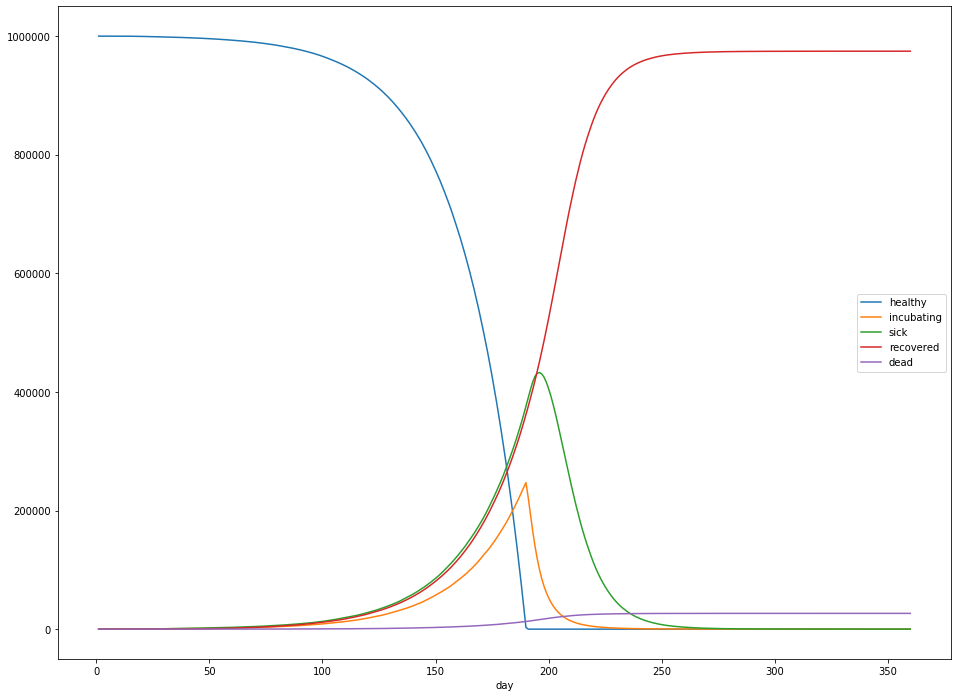
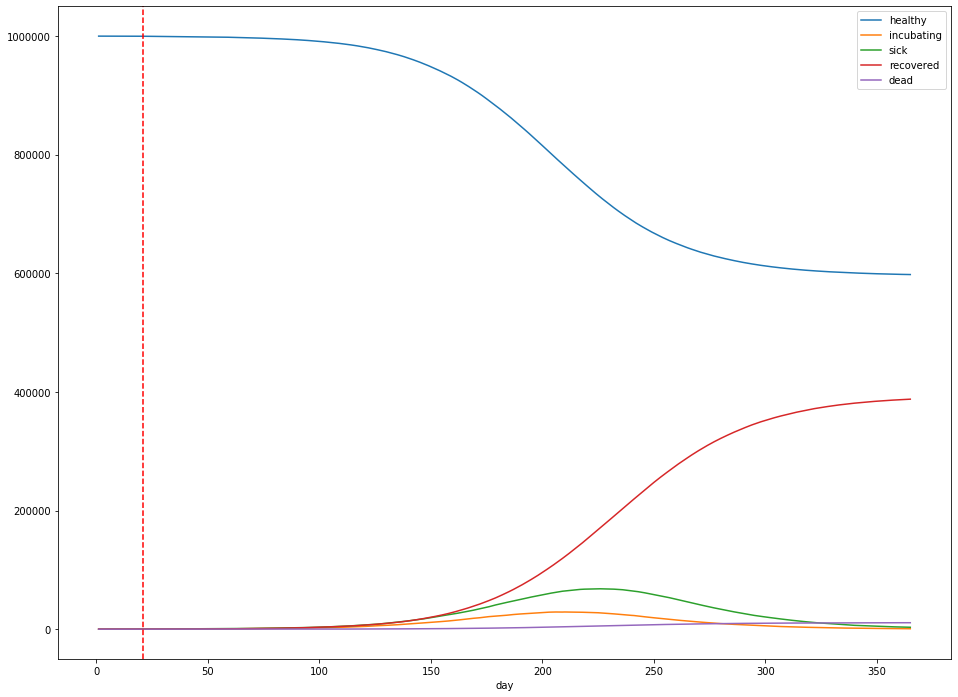
Update covid post

diff --git a/_posts/2020-3-22-simulating-covid.md b/_posts/2020-3-22-simulating-covid.md
@@ -251,21 +251,17 @@ Next, a function to infect a given number of random healthy individuals in the p
 
 ```python
 def infect(population, count):
-    healthy = (population[:,STATE_HEALTHY] == 1).nonzero()[0]
-    if len(healthy) == 0:
-        return
-    to_infect = np.random.choice(healthy, 
-                                 size=min(count, len(healthy)), 
-                                 replace=False)
+    to_infect = np.random.choice(len(population), size=count, replace=False)
+    infectees = to_infect[(population[to_infect,STATE_HEALTHY] == 1).nonzero()[0]]
     
-    population[to_infect, STATE_HEALTHY] = 0
-    population[to_infect, STATE_INCUBATING] = 1
+    population[infectees, STATE_HEALTHY] = 0
+    population[infectees, STATE_INCUBATING] = 1
     return
 ```
 
 The one sneaky thing going on here is the `.nonzero()[0]` call:
 ```python
-population[:,STATE_HEALTHY] == 1
+population[to_infect,STATE_HEALTHY] == 1
 ```
 returns a boolean array of the same shape as `population`, and we want to select the indices of the true values.
 `.nonzero()` returns the indicies of nonzero values, but it returns a tuple---and we're only interested in the first element of that tuple.
@@ -336,9 +332,10 @@ Running the simulation with the parameters gives me the following results:
 
 In particular:
 
-* The peak number of sick people was 734,077 -- 73% of the population.
-* The peak occured 66 days after the first sick case was observed.
-* After 180 days, about 26,866 people had died -- 2.7% of the population.
+* Overall, 884,326 people were infected -- 88.4% of the population.
+* The peak number of sick people was 515,541 -- 52% of the population.
+* The peak occured 70 days after the first sick case was observed.
+* After 300 days, about 24,433 people had died -- 2.4% of the population.
 * Sick cases generally lagged the number of incubating cases by about 5 days.
 * For cases that ended in death, death generally resulted after about 14 days of illness.
 * When the person survived, recovery generally occurred after about 21 days of illness.
@@ -357,15 +354,16 @@ For the purposes of the simulation, I'll assume that the measures are enacted 3 
 
 ![Simulation 2](/images/posts/2020-3-23/sim-2.png)
 
-* The peak number of infected is 432,774 -- 43% of the population
-* The peak occurs 195 days after the first sick case is observed
-* After 360 days, about 26,593 people had died -- again, 2.7% of the population.
+* The total number of infections was 387,802 -- 38.8% of the population.
+* The peak number of infected is 68,045 -- 6.8% of the population.
+* The peak occurs 225 days after the first sick case is observed.
+* After 365 days, about 10,841 people had died -- 10.8% of the population.
 
 Under the assumptions of our simulation, varying the time the measures are enacted has a significant impact on the time at which the peak number of sick persons occurs:
 Moving the social distancing measures a week earlier (to 14 days into the simulation) pushes out the peak 3 weeks (to 220 days into the simulation).
 It doesn't affect the height of the peak---instead, this is controlled by the effectiveness of the measures themselves.
 
-For example, measures that reduce $R_0$ from 2.4 to 1.2 (above) result in a peak number of cases that's 41% lower than without any measures at all, whereas reducing from 2.4 to 1.8  result in a peak number of cases of 674,291, only a 9% reduction in peak height (below).
+For example, measures that reduce $R_0$ from 2.4 to 1.2 (above) result in a peak number of cases that's 86% lower than without any measures at all, whereas reducing from 2.4 to 1.8  result in a peak number of cases of 336,169, only a 35% reduction in peak height (below).
 
 ![Simulation 3](/images/posts/2020-3-23/sim-3.png)
 
@@ -378,39 +376,42 @@ What happens?
 ![Simulation 4](/images/posts/2020-3-23/sim-4.png)
 
 The dashed red lines in the figure above indicate the start and stop of social distancing measures, which are assumed to reduce $R_0$ to 1.2.
-Unfortunately for us, all this does is delay the peak: the peak number of sick patients is still close to 72% of the population (at 719,619), but at least the peak occurs 115 days into the simulation, rather than 70 days.
+Unfortunately for us, all this does is delay the peak: the peak number of sick patients is still close to 50% of the population (at 501,244), but at least the peak occurs 123 days into the simulation, rather than 70 days.
+The total dead is still around 2.4%.
 
 Let's suppose instead, we institute social distancing with a 2 months on, 1 month off cadence as explored in [the ICL paper](https://www.imperial.ac.uk/media/imperial-college/medicine/sph/ide/gida-fellowships/Imperial-College-COVID19-NPI-modelling-16-03-2020.pdf):
 
 ![Simulation 5](/images/posts/2020-3-23/sim-5.png)
 
-In our simulated world, this delays the eventual peak from 70 days to about 120 days in, but does not dampen the height of the peak: still about 72% of the population is infected at the peak, and the total dead is about 2.6%.
+In our simulated world, this delays the eventual peak from 70 days to about 120 days in, but only slightly dampens the height of the peak: about 45.9% of the population is infected at the peak, and the total dead is about 2.1%.
+Additionally, a total of 765,654 (77%) people are infected over the lifetime of the outbreak.
 
 Finally, let's do one more simulation---this time, where social distancing is lifted when the rate of new cases slows to **zero** new cases a day, and the total number of sick people is below 20% of the population.
 Social distancing is re-instituted when there are more than 1,000 new cases a day.
-We'll also assume that our social distancing is _extra super effective_: that it reduces $R_0$ to 0.6, a quarter of the initial $R_0$.
 
 ![Simulation 6](/images/posts/2020-3-23/sim-6.png)
 
-In this case, at its peak, 323,638 people are sick with the virus 178 days into the simulation.
-The total mortality rate remains stubbornly consistent, with 26,749 dead after 360 days.
-The lockdowns are imposed from days 21 to 39, days 66 to 83, days 92 to 109, days 117 to 133, days 140 to 156, and days 163 to 197, with the largest peak in infections occuring during the last lockdown.
+In this case, at its peak, 119,669 people are sick with the virus 200 days into the simulation.
+The total mortality rate remains stubbornly consistent, with 20,409 dead after 360 days.
+The lockdowns are imposed from days 21 to 156, days 163 to 180, and days 190 to 201, with the largest peak in infections occuring during the last lockdown.
+Overall, 739,714 people catch the virus.
 
 
 ## Concluding thoughts
 
 This simulation approach is overly simplistic, and obviously gets a few things wrong.
 To start, every simplifying assumption is likely false.
-Another possibly less obvious error is that the model assumes that over time, everyone eventually either dies or recovers from the disease.
-In the academic literature, this is considered highly unlikely: even the most pessimistic published forecasts for COVID-19 seem to put an upper limit of about 60 to 70% of the population being infected by the disease at some point over the next year.
-I am not an epidemiologist, but I suspect that one part of the discrepancy is that more sophisticated simulations do not assume homogenous mixing of the population, i.e. that every person in the population may potentially interact with any other in a uniform way.
+Another possibly less obvious error is that the model is rather pessimistic about the total number of infections (usually in the neighborhood of 75% of the population).
+Even the most pessimistic forecasts generally don't go this high.
+I am not an epidemiologist, but I suspect that one potential source of error is that more sophisticated simulations do not assume homogenous mixing of the population, i.e. that every person in the population may potentially interact with any other in a uniform way.
 It's possible that a graph-theoretic approach (simulate a random graph of the connections within the population, and allow the virus to propogate out from one of the nodes) may be more suitable, and can also better model social distancing via pruning of edges of the graph.
+(In particular, even starting from a connected graph, this approach would eventually lead to a a graph with multiple disjoint components.)
 
 All that being said, this exercise did leave me with a few conclusions:
 
 * $R_0$ matters a lot: the more we can do to reduce the probability of passing along the virus, even if you're not in an at-risk population yourself, the fewer overall deaths we'll see.
 * Lockdown directives can lower the peak infection number and delay the peak, but only while they're in place. It's likely that lifting any shelter-in-place or lockdown directives will lead to a resurgence in the virus.
-* The overall number of deaths due to the virus is relatively unaffected by social distancing measures. This suggests to me that the most effective way to reduce the number of deaths is through better treatment (e.g. antiviral medication or a vaccine), rather than social measures.
+* The overall number of deaths due to the virus is relatively unaffected by part-time social distancing measures. To reduce fatalities, we must directly lower $R_0$, for a prolonged period of time at likely significant social cost, or change the CFR. This suggests to me that the most effective way to reduce the number of deaths is through better treatment (e.g. antiviral medication or a vaccine), rather than social measures.
 
 Finally, it's clear to me that **we're in this for the long haul**.
 Anyone who thinks that come April 1st or even April 30th, the lockdowns can be lifted and the virus will just disappear is kidding themselves.
